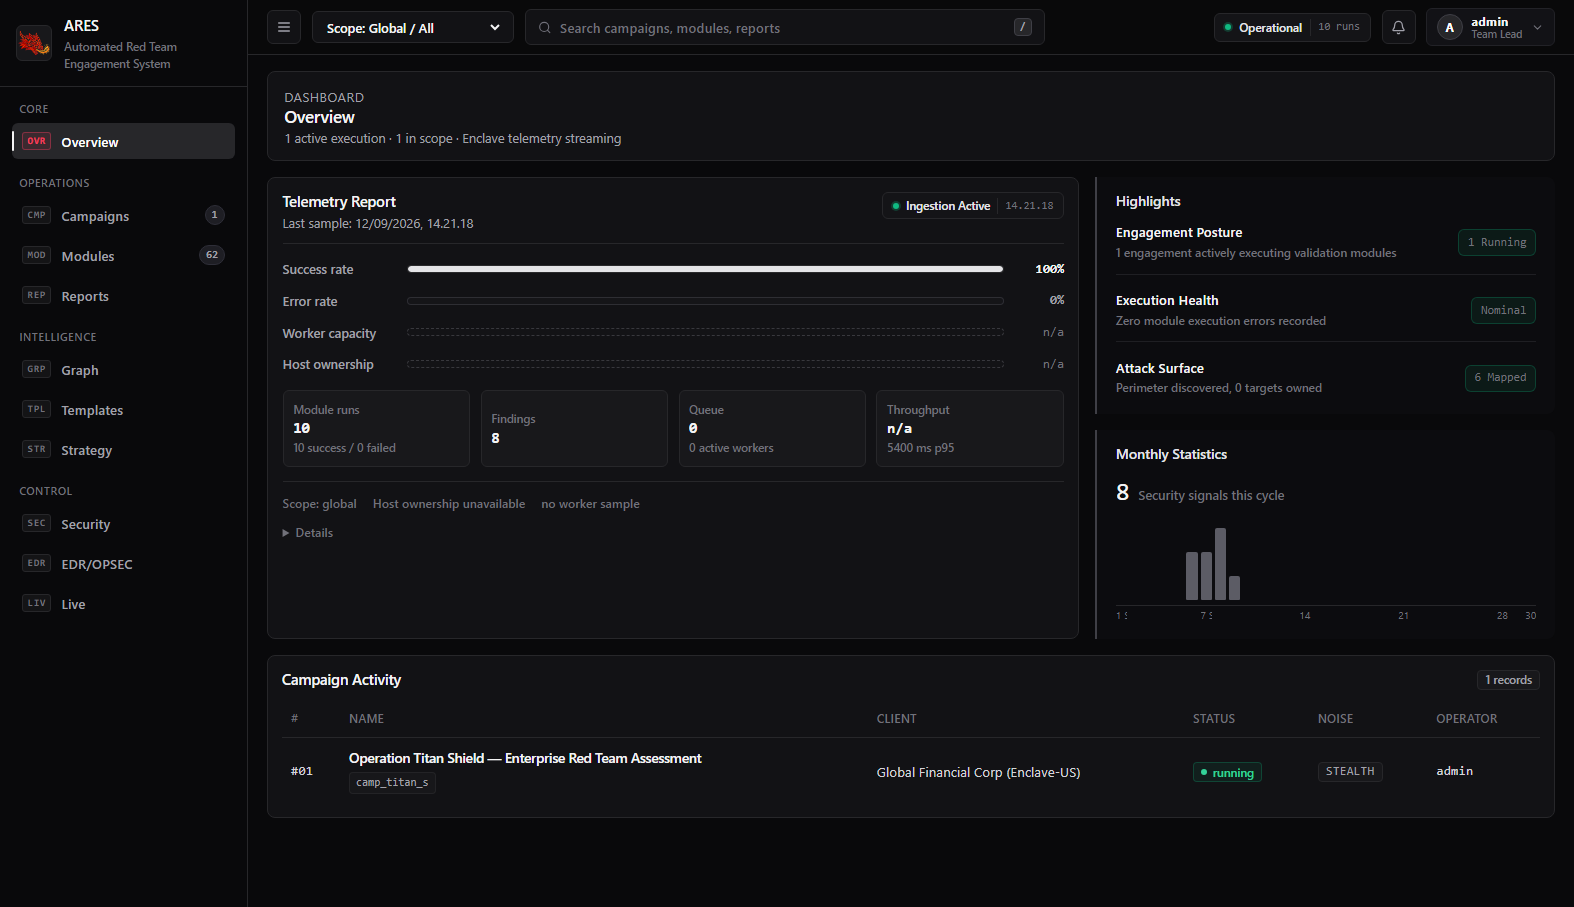
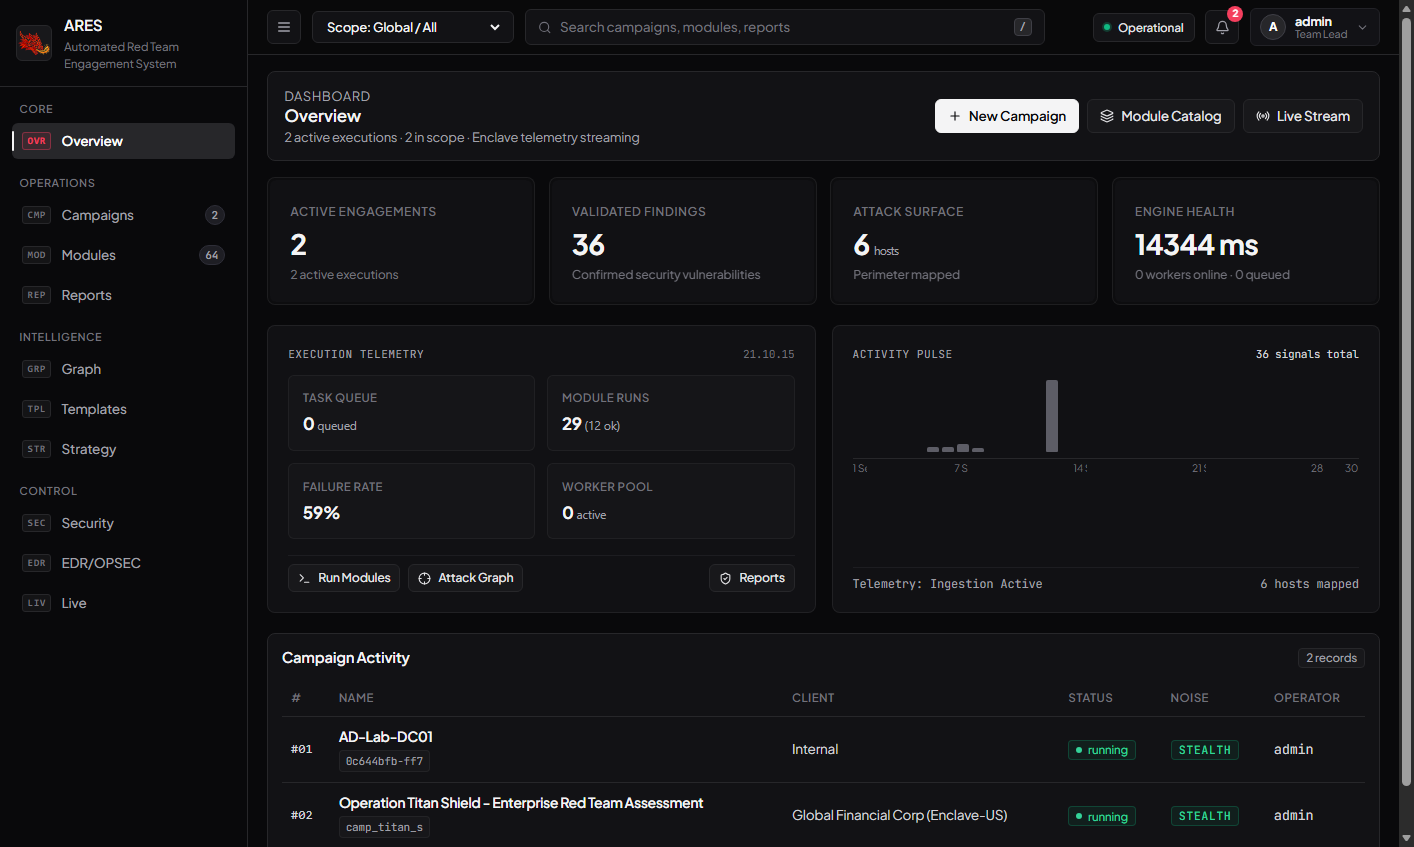
docs(readme): update overview screenshot, document new architecture, and clean emojis

diff --git a/README.md b/README.md
@@ -22,13 +22,13 @@
 
 <br>
 
-[**Platform Showcase**](#-platform-showcase--control-surfaces) • [**Why ARES?**](#-why-enterprises-choose-ares) • [**Competitive Matrix**](#-market-comparison-matrix) • [**Architecture**](#-system-architecture--data-pipeline) • [**MITRE Matrix**](#-adversary-techniques--mitre-attck-matrix) • [**Quickstart**](#-quickstart-up-and-running-in-60-seconds) • [**Sponsorship**](#-support--sponsorship) • [**Zero-Trust Security**](#-enterprise-security-model--compliance) • [**Documentation**](docs/)
+[**Platform Showcase**](#platform-showcase--control-surfaces) • [**Why ARES?**](#why-enterprises-choose-ares) • [**Competitive Matrix**](#market-comparison-matrix) • [**Architecture**](#system-architecture--data-pipeline) • [**MITRE Matrix**](#adversary-techniques--mitre-attck-matrix) • [**Quickstart**](#quickstart-up-and-running-in-60-seconds) • [**Sponsorship**](#support--sponsorship) • [**Zero-Trust Security**](#enterprise-security-model--compliance) • [**Documentation**](docs/)
 
 </div>
 
 ---
 
-## ⚡ Executive Summary
+## Executive Summary
 
 Traditional penetration testing is fundamentally flawed: it is expensive, episodic, point-in-time, and leaves organizations blind to newly introduced misconfigurations and emerging adversary tradecraft. Meanwhile, automated vulnerability scanners overwhelm SOC teams with thousands of hypothetical CVEs without demonstrating exploitability or multi-stage lateral attack paths.
 
@@ -36,7 +36,7 @@ Traditional penetration testing is fundamentally flawed: it is expensive, episod
 
 ---
 
-## 🎯 Why Enterprises Choose ARES
+## Why Enterprises Choose ARES
 
 ```
                                     THE ARES ADVANTAGE
@@ -66,7 +66,7 @@ Traditional penetration testing is fundamentally flawed: it is expensive, episod
 
 ---
 
-## 📊 Market Comparison Matrix
+## Market Comparison Matrix
 
 | Operational Capability | Traditional Manual Pentest | Legacy Vulnerability Scanners | ARES Autonomous Platform |
 | :--- | :---: | :---: | :---: |
@@ -93,7 +93,7 @@ The ARES Platform features a high-performance, responsive operator dashboard eng
 
 ---
 
-### 1. 🛡 Operator Enclave & Zero-Trust Gateway
+### 1. Operator Enclave & Zero-Trust Gateway
 
 *Autonomous entry barrier designed specifically for authorized offensive operators and security personnel.*
 
@@ -117,7 +117,7 @@ The ARES Platform features a high-performance, responsive operator dashboard eng
 
 ---
 
-### 2. 📊 Executive Command Center & Telemetry
+### 2. Executive Command Center & Telemetry
 
 *Real-time operational command console providing instant posture visibility across active campaigns.*
 
@@ -125,7 +125,7 @@ The ARES Platform features a high-performance, responsive operator dashboard eng
 
 ![ARES Executive Command Center & Telemetry](docs/assets/screenshots/dashboard-overview.png)
 
-*Executive Command Center displaying real-time telemetry, confirmed findings by severity, and operational health.*
+*Executive Command Center displaying real-time telemetry, validated findings, attack surface metrics, and activity pulse.*
 
 <br>
 
@@ -135,19 +135,19 @@ The ARES Platform features a high-performance, responsive operator dashboard eng
 
 </div>
 
-- **The Problem Solved**: Aggregates scattered offensive metrics into a single real-time operational pane without requiring manual status queries.
+- **The Problem Solved**: Aggregates scattered offensive metrics into a single real-time operational pane without requiring manual status queries or complex log filtering.
 - **Key Capabilities**:
-  - **Operational Design System**: Engineered with high-density visual hierarchy (inspired by Grafana, Linear, and Sentry) - featuring subtle left-accented contextual panels (`panel-subtle`), dynamic reactive topbar health indicators, and distinct dashed progress tracks for uninitialized metric baselines.
-  - **Actionable Engagement Insights**: Replaces redundant raw counts with contextual security posture insights:
-    - *Engagement Posture*: Clear state delineation (`Staged`, `Executing`, or `Standby`) distinguishing scoped targets from executing campaigns.
-    - *Execution Health*: Real-time monitor of pipeline anomalies, module execution failures, and enclave stability.
-    - *Attack Surface*: Live tracking of discovered hosts, credential pivots, and network penetration depth.
-  - **Telemetry & Pipeline Ingestion**: Real-time worker pool throughput, P95 task duration, and live event ingestion indicators.
+  - **Executive Telemetry HUD**: Clean 4-card operational matrix featuring `Active Engagements`, `Validated Findings`, `Attack Surface`, and `Engine Health` (P95 latency, worker pool, and queue depth). Engineered with crisp typography (Plus Jakarta Sans & JetBrains Mono), eliminating redundant counts and distracting indicator dots.
+  - **Balanced Execution Workstation (50/50 Split)**:
+    - *Execution Telemetry*: Real-time operational health tracking Task Queue depth, Module Runs with success/failure breakdown, Failure Rate, Worker Pool health, and instant action links to Modules, Attack Graph, and Reports.
+    - *Activity Pulse*: 14-day security signal distribution sparkline with live telemetry stream status.
+  - **Campaign Inventory Matrix**: Single source of truth for all scoped engagements with click-to-filter reactivity, status badges, noise controls, and operator identity.
+  - **Streamlined Topbar Heartbeat**: Minimalist live system status indicator (`Operational` / `Offline`) with on-demand subsystem health inspection from any view.
   - **Tactical Fresh-Install Hero**: Automatic empty-state fallback with a centered initialization CTA and minimal readiness strip when starting with zero campaigns.
 
 ---
 
-### 3. 🎯 Scoped Campaign & Target Boundary Management
+### 3. Scoped Campaign & Target Boundary Management
 
 *Zero-collateral target governance enforcing hard CIDR whitelist boundaries and encrypted evidence isolation.*
 
@@ -169,7 +169,7 @@ The ARES Platform features a high-performance, responsive operator dashboard eng
 
 ---
 
-### 4. ⚡ Modular Adversary Orchestration (60+ Modules)
+### 4. Modular Adversary Orchestration (60+ Modules)
 
 *Extensive catalog of weaponized adversary techniques aligned with the MITRE ATT&CK enterprise matrix.*
 
@@ -191,7 +191,7 @@ The ARES Platform features a high-performance, responsive operator dashboard eng
 
 ---
 
-### 5. 🕸 Multi-Vector Pivot Graph & Cobalt Strike Beacon Terminal Dock
+### 5. Multi-Vector Pivot Graph & Cobalt Strike Beacon Terminal Dock
 
 *Interactive Cobalt Strike-styled hierarchical lateral pivot topology graph paired with a real-time multi-tabbed Beacon session terminal console.*
 
@@ -227,7 +227,7 @@ The ARES Platform features a high-performance, responsive operator dashboard eng
 
 ---
 
-### 6. 📑 Automated Report Engine & Evidence Library
+### 6. Automated Report Engine & Evidence Library
 
 *Instant deliverable generation producing branded, audit-ready compliance reports across multiple enterprise formats (Executive PDF, Technical Markdown, Defect CSV).*
 
@@ -249,7 +249,7 @@ The ARES Platform features a high-performance, responsive operator dashboard eng
 
 ---
 
-### 7. 🧠 Autonomous Strategy & AI Planner
+### 7. Autonomous Strategy & AI Planner
 
 *Goal-directed autonomous engine that plans, prioritizes, and executes complex attack chains while respecting OPSEC limits.*
 
@@ -270,7 +270,7 @@ The ARES Platform features a high-performance, responsive operator dashboard eng
 
 ---
 
-### 8. 🔗 Multi-Stage Adversary Execution Chains
+### 8. Multi-Stage Adversary Execution Chains
 
 *Deterministic, multi-step kill chains orchestrating reconnaissance, credential harvesting, and lateral movement in sequence.*
 
@@ -290,7 +290,7 @@ The ARES Platform features a high-performance, responsive operator dashboard eng
 
 ---
 
-### 9. 🛡 EDR / OPSEC Evasion & Bypass Knowledge Base
+### 9. EDR / OPSEC Evasion & Bypass Knowledge Base
 
 *Empirical tracking of evasion efficacy across enterprise endpoint detection and response (EDR) platforms.*
 
@@ -310,7 +310,7 @@ The ARES Platform features a high-performance, responsive operator dashboard eng
 
 ---
 
-### 10. 🔐 Zero-Trust Security Governance & Audit Trail
+### 10. Zero-Trust Security Governance & Audit Trail
 
 *Audited multi-role access control, cryptographic API key lifecycle, and continuous platform integrity verification.*
 
@@ -330,7 +330,7 @@ The ARES Platform features a high-performance, responsive operator dashboard eng
 
 ---
 
-### 11. 📡 Live Operations & Real-Time Event Stream
+### 11. Live Operations & Real-Time Event Stream
 
 *High-frequency WebSocket event bus streaming operational telemetry, module output, and pipeline status.*
 
@@ -350,7 +350,7 @@ The ARES Platform features a high-performance, responsive operator dashboard eng
 
 ---
 
-### 12. 📋 Enterprise Playbooks & Campaign Templates
+### 12. Enterprise Playbooks & Campaign Templates
 
 *Standardized engagement architectures for recurring red team exercises, compliance audits, and purple team drills.*
 
@@ -370,7 +370,7 @@ The ARES Platform features a high-performance, responsive operator dashboard eng
 
 ---
 
-### 13. 🔌 Interactive OpenAPI 3.1 & Developer Integration
+### 13. Interactive OpenAPI 3.1 & Developer Integration
 
 *Fully documented, interactive REST API surface for custom tooling, SOC orchestration, and CI/CD pipeline integration.*
 
@@ -390,7 +390,7 @@ The ARES Platform features a high-performance, responsive operator dashboard eng
 
 ---
 
-## 🎛 Control Surfaces Breakdown
+## Control Surfaces Breakdown
 
 | Surface | Core Responsibility | Available Sub-Tabs | Primary Operators |
 | :--- | :--- | :--- | :--- |
@@ -407,7 +407,7 @@ The ARES Platform features a high-performance, responsive operator dashboard eng
 
 ---
 
-## 🏗 System Architecture & Data Pipeline
+## System Architecture & Data Pipeline
 
 ARES follows a strict defense-in-depth architecture separating presentation, execution orchestration, security governance, and persistent cryptographic storage:
 
@@ -458,7 +458,7 @@ flowchart TB
 
 ---
 
-## ⚔ Adversary Techniques & MITRE ATT&CK Matrix
+## Adversary Techniques & MITRE ATT&CK Matrix
 
 ARES implements 60+ modular adversary techniques natively mapped to the MITRE ATT&CK Enterprise Framework:
 
@@ -482,7 +482,7 @@ ARES implements 60+ modular adversary techniques natively mapped to the MITRE AT
 
 ---
 
-## 🚀 Quickstart: Up and Running in 60 Seconds
+## Quickstart: Up and Running in 60 Seconds
 
 ### Prerequisites
 - **Python**: 3.11 or 3.12 (Python 3.12 recommended for Windows).
@@ -520,7 +520,7 @@ Open your browser to **`http://127.0.0.1:5173/dashboard/`**.
 
 ---
 
-## 🔐 Enterprise Security Model & Compliance
+## Enterprise Security Model & Compliance
 
 ARES was designed for environments with the most stringent compliance and confidentiality requirements:
 
@@ -547,7 +547,7 @@ ARES enforces strict RBAC permissions across all API endpoints, background jobs,
 
 ---
 
-## 🔌 ARES MCP Gateway & Product-Grade CLI
+## ARES MCP Gateway & Product-Grade CLI
 
 ARES provides a production-grade **Model Context Protocol (MCP)** Gateway that enables modern AI coding assistants (Cursor IDE, Claude Desktop, Windsurf, VS Code Cline, Zed, Open-WebUI, LibreChat) to interact with the ARES purple-team offensive platform safely and under strict governance.
 
@@ -561,7 +561,7 @@ ARES provides a production-grade **Model Context Protocol (MCP)** Gateway that e
 
 Unlike basic MCP servers that expose raw endpoints to LLMs without guardrails, ARES enforces strict **Pre-Flight Scope Invariance (`ScopeGuard`)**, **Anti-Prompt-Injection Taint Isolation**, and **Single-Use 60-second HMAC Confirmation Tokens** before any live offensive action can execute.
 
-### 🚀 Where Do I Start First? (Step-by-Step Onboarding)
+### Where Do I Start First? (Step-by-Step Onboarding)
 
 For operators or developers connecting Cursor, Claude Desktop, or Windsurf to ARES:
 
@@ -610,7 +610,7 @@ For in-depth architecture, the 7 security invariants, CLI scriptability (`--json
 
 ---
 
-## 🛠 Extensible Developer SDK (Next-Gen Autonomous Architecture)
+## Extensible Developer SDK (Next-Gen Autonomous Architecture)
 
 ARES provides a first-class, type-safe Python SDK (`ares.sdk`) to build custom adversary modules, simulate techniques in isolated test harnesses, and automate engagements programmatically:
 
@@ -679,7 +679,7 @@ See [docs/module_sdk.md](docs/module_sdk.md) and [docs/module-development.md](do
 
 ---
 
-## 📚 Documentation Sitemap
+## Documentation Sitemap
 
 Comprehensive documentation is available in the [`docs/`](docs/) directory:
 
@@ -697,7 +697,7 @@ Comprehensive documentation is available in the [`docs/`](docs/) directory:
 
 ---
 
-## 💖 Support & Sponsorship
+## Support & Sponsorship
 
 If ARES has accelerated your security assessments, helped protect your enterprise infrastructure, or advanced your offensive security research, consider sponsoring the project to fund continuous feature development, threat research, and lab infrastructure:
 
@@ -714,7 +714,7 @@ If ARES has accelerated your security assessments, helped protect your enterpris
 
 ---
 
-## ⚖ Responsible Use & Legal Disclaimer
+## Responsible Use & Legal Disclaimer
 
 > [!IMPORTANT]
 > **ARES is a dual-use software framework designed exclusively for authorized cybersecurity research, internal enterprise resilience validation, and professional red-team engagements with explicit written permission.**
@@ -727,7 +727,7 @@ To report security vulnerabilities in ARES, please follow our [Security Policy](
 
 ---
 
-## 📄 License
+## License
 
 ARES is distributed under the open-source **[MIT License](LICENSE)**.
 

diff --git a/docs/dashboard-guide.md b/docs/dashboard-guide.md
@@ -207,13 +207,10 @@ Purpose: quick system status.
 
 Shows:
 
-- API health.
-- Campaign count.
-- Telemetry status.
-- Telemetry metric cards for module runs, findings, latency, throughput,
-  queue depth, worker health, and scope counters.
-- Expandable raw telemetry snapshot for debugging.
-- Campaign summary table.
+- API & system heartbeat status (`Operational` / `Offline`).
+- Tier 1 Executive HUD: Active Engagements, Validated Findings, Attack Surface, and Engine Health (P95 latency, worker pool, queue depth).
+- Tier 2 Operational Telemetry (50/50 split): Task Queue, Module Runs, Failure Rate, Worker Pool, and 14-day Activity Pulse sparkline.
+- Tier 3 Campaign Activity Table for inventory management and instant scope isolation.
 
 Overview does not have variation tabs; the accepted dashboard view is shown
 directly.
